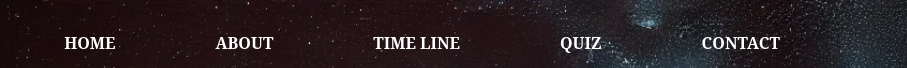
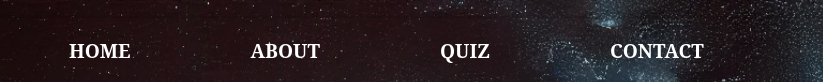
imagenes agregada

diff --git a/README.md b/README.md
@@ -26,13 +26,13 @@ This project is a Vue.js application that displays the Marvel timeline. It inclu
 This logo represents the Marvel brand and helps establish the theme of the Marvel Universe in the application.
 
 ## Navbar
-The **Navbar** is a fixed navigation bar at the top of the page that provides links to the main sections of the application: Home, About, Timeline, Quiz, and Contact.
+The **Navbar** is a fixed navigation bar at the top of the page that provides links to the main sections of the application: Home, About, Quiz, and Contact.
 
 ![Navbar ](src/assets/img/NavbarTimeLine.png)  
 
 ### Features
 - **Responsive Navigation:** The navbar stays fixed at the top of the page, allowing easy access to the navigation links.
-- **Navigation Links:** Each link directs the user to a different section of the app (Home, About, Timeline, Quiz, Contact).
+- **Navigation Links:** Each link directs the user to a different section of the app (Home, About, Quiz, Contact).
 - **Interactive Hover Effect:** Links change color on hover, providing a visual cue to users.
 
 ### What does the Navbar do?
@@ -42,7 +42,7 @@ The **Navbar** is a fixed navigation bar at the top of the page that provides li
 
 The **Home** page is the main screen of the application. Here, users can get an overview of the Marvel timeline and navigate to other sections.
 
-![HomePage ](src/assets/img/homeTimeLine.png)  
+![Home Page ](src/assets/img/homeTimeLine.png)  
 
 ### What does the Home page do?
 - Displays an introduction to the Marvel timeline.  
@@ -51,7 +51,7 @@ The **Home** page is the main screen of the application. Here, users can get an 
 
 The **About** page provides an overview of the Marvel Timeline project, explaining its purpose and features.
 
-![aboutPage](src/assets/img/aboutTimeLine.png)  
+![about Page](src/assets/img/aboutTimeLine.png)  
 
 ### Overview  
 This page explains the purpose of the **Marvel Timeline Project**, which organizes Marvel Universe events chronologically, focusing on comics.
@@ -83,7 +83,7 @@ The **Timeline** page displays Marvel Universe events in chronological order, wi
 
 The **Quiz** page is an interactive section where users can test their Marvel knowledge with fun and engaging questions.
 
-![QuizPage](src/assets/img/QuizTimeLine.png)  
+![Quiz Page](src/assets/img/QuizTimeLine.png)  
 
 ### What does the Quiz page do?  
 - Provides a set of questions related to Marvel events and characters.  
